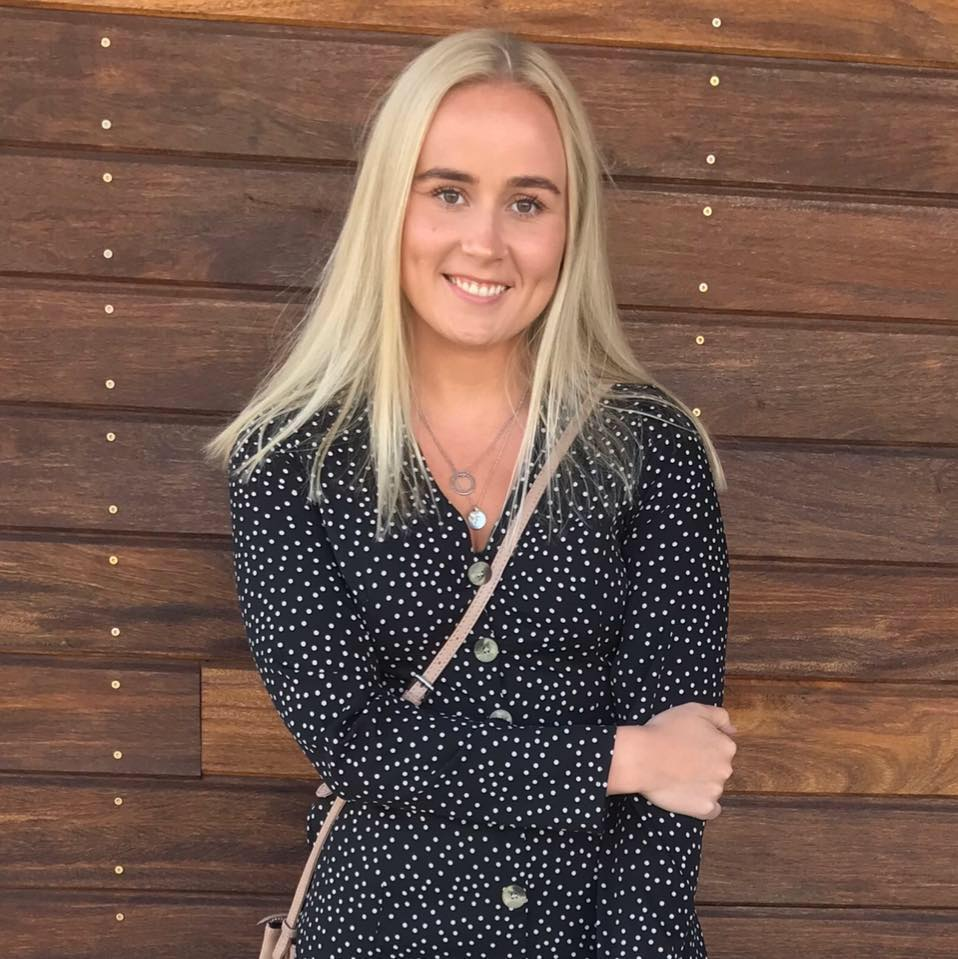
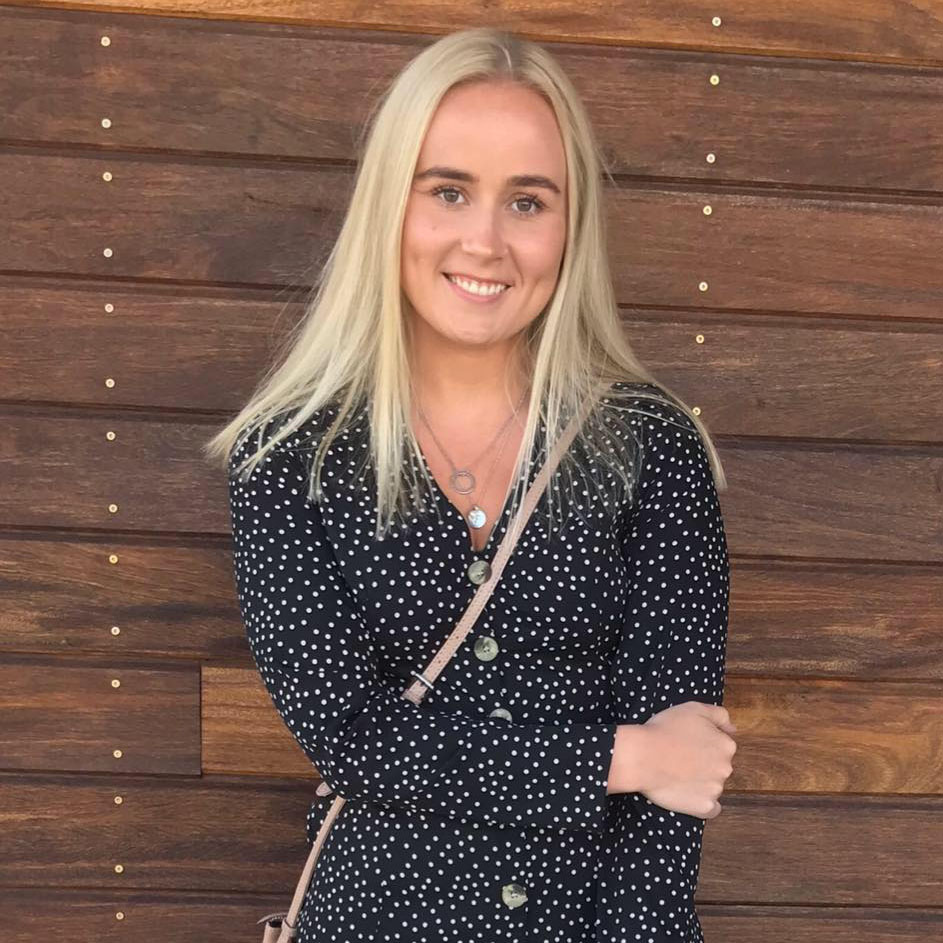
Fixed button on webpage and made images equal in size

diff --git a/index.html b/index.html
@@ -127,7 +127,7 @@
                 <p class="mb-5">The London Fire Brigade (LFB) is the busiest fire and rescue service in the United Kingdom and one of the largest firefighting and rescue organisations in the world.
                   Our mission is to explore the data they provide and deliver valuable and interesting insides.</p>
                 <div>
-                  <a href="#" class="btn btn-primary mr-2 mb-2">Get Started</a>
+                  <a href="#overview-section" class="btn btn-primary mr-2 mb-2">Get Started</a>
                 </div>
               </div>
 
@@ -298,7 +298,7 @@
               <source src="pageContent/video.mp4" type="video/mp4">
             Your browser does not support the video tag.
             </video>
-            
+
           </div>
         </div>
 
